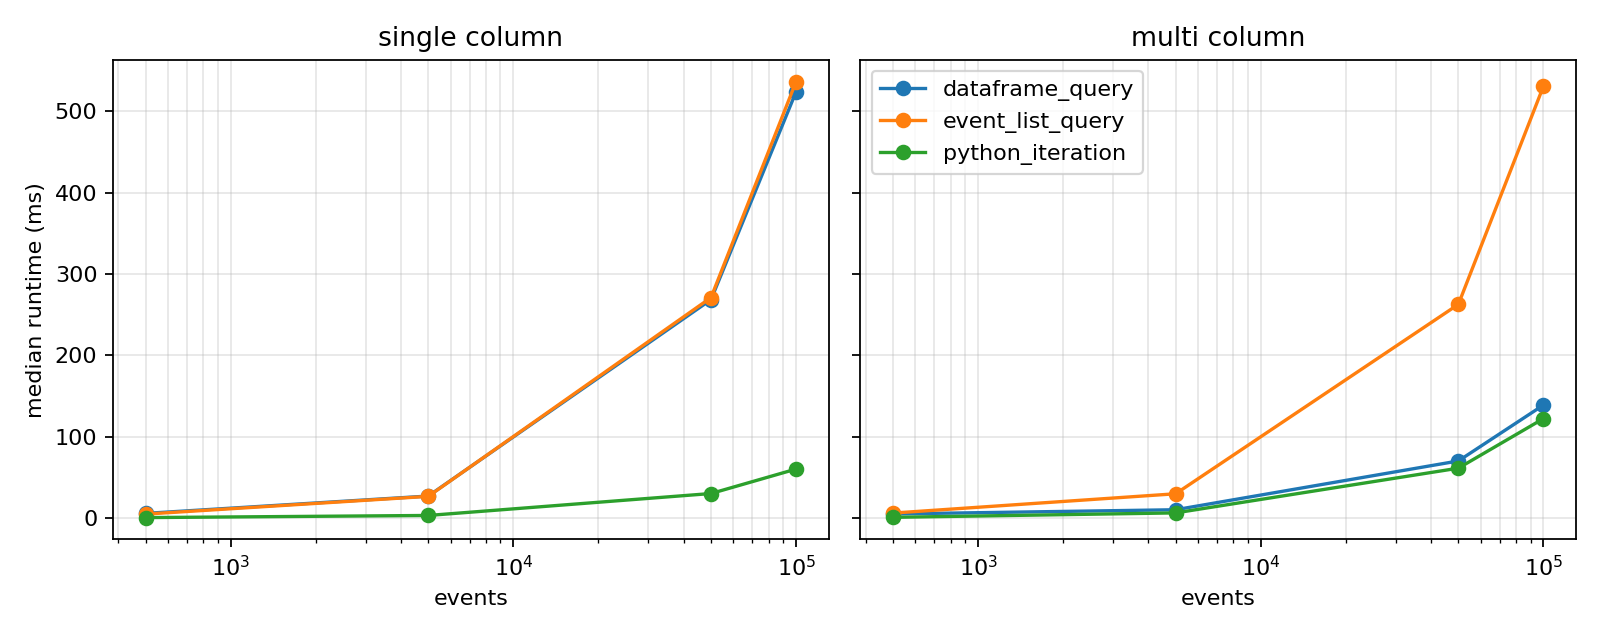
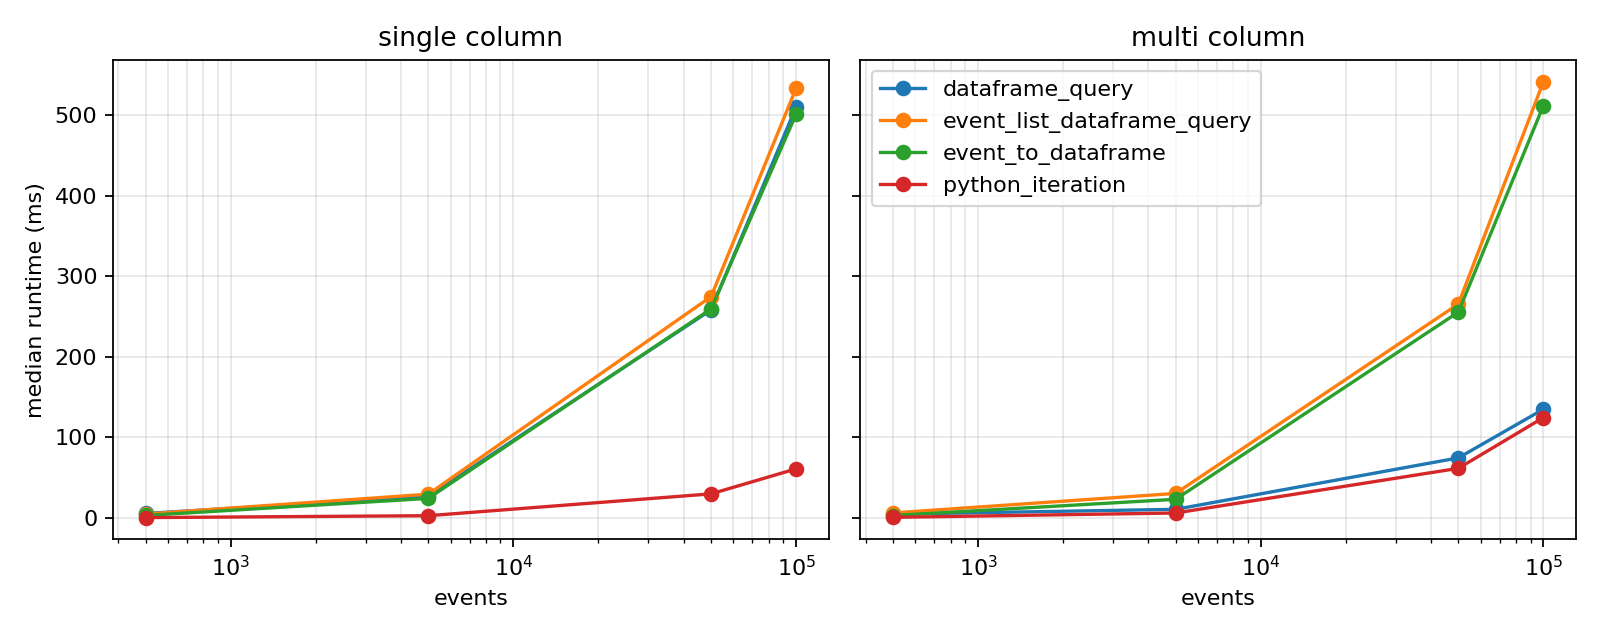
Clarify event query benchmark costs

diff --git a/scratch/sdascoli/query_benchmark.py b/scratch/sdascoli/query_benchmark.py
@@ -47,9 +47,16 @@ def dataframe_query(df: pd.DataFrame, query: str) -> list[ns.events.Event]:
     return extract_events(query_with_index(df, query), types="Fmri")
 
 
-def event_list_query(events: list[ns.events.Event], query: str) -> list[ns.events.Event]:
+def events_to_dataframe(events: list[ns.events.Event]) -> pd.DataFrame:
     events_df = pd.DataFrame([event.to_dict() for event in events])
     events_df.index = pd.RangeIndex(len(events))
+    return events_df
+
+
+def event_list_dataframe_query(
+    events: list[ns.events.Event], query: str
+) -> list[ns.events.Event]:
+    events_df = events_to_dataframe(events)
     selected = query_with_index(events_df, query)
     return [events[int(index)] for index in selected.index]
 
@@ -76,9 +83,7 @@ def iter_multi(events: list[ns.events.Event]) -> list[ns.events.Event]:
     return selected
 
 
-def time_call(
-    fn: tp.Callable[[], list[ns.events.Event]], repeats: int
-) -> tuple[float, int]:
+def time_call(fn: tp.Callable[[], tp.Sized], repeats: int) -> tuple[float, int]:
     elapsed = []
     n_selected = 0
     for _ in range(repeats):
@@ -98,14 +103,17 @@ def run_benchmark(sizes: list[int], repeats: int) -> pd.DataFrame:
     for n_events in sizes:
         df = make_fmri_events(n_events)
         events = extract_events(df, types="Fmri")
-        methods: dict[str, dict[str, tp.Callable[[], list[ns.events.Event]]]] = {
+        methods: dict[str, dict[str, tp.Callable[[], tp.Sized]]] = {
             "dataframe_query": {
                 name: lambda q=query: dataframe_query(df, q)
                 for name, query in queries.items()
             },
-            "event_list_query": {
-                name: lambda q=query: event_list_query(events, q)
+            "event_list_dataframe_query": {
+                name: lambda q=query: event_list_dataframe_query(events, q)
                 for name, query in queries.items()
+            },
+            "event_to_dataframe": {
+                name: lambda: events_to_dataframe(events) for name in queries
             },
             "python_iteration": {
                 "single_column": lambda: iter_single(events),
